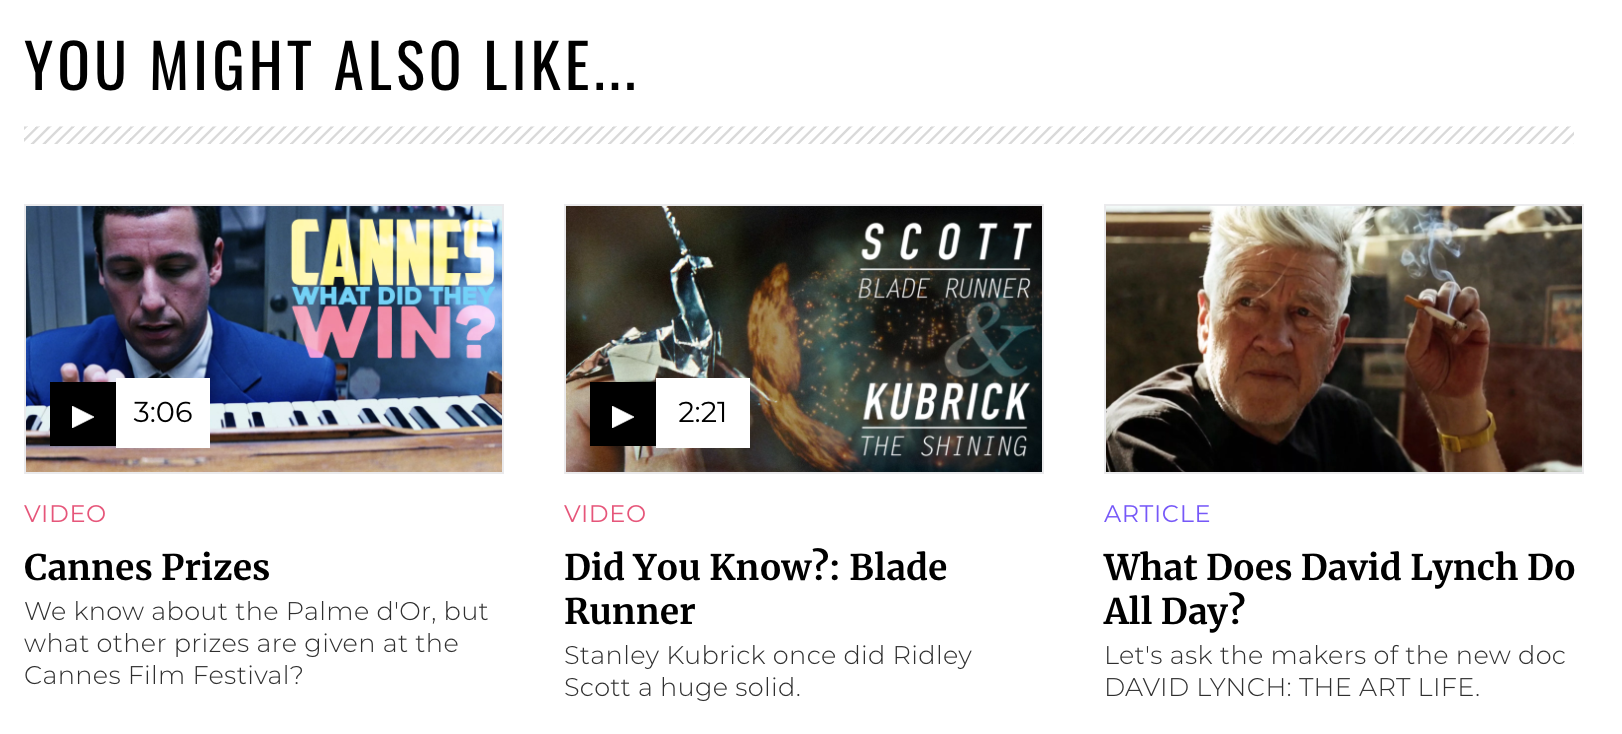
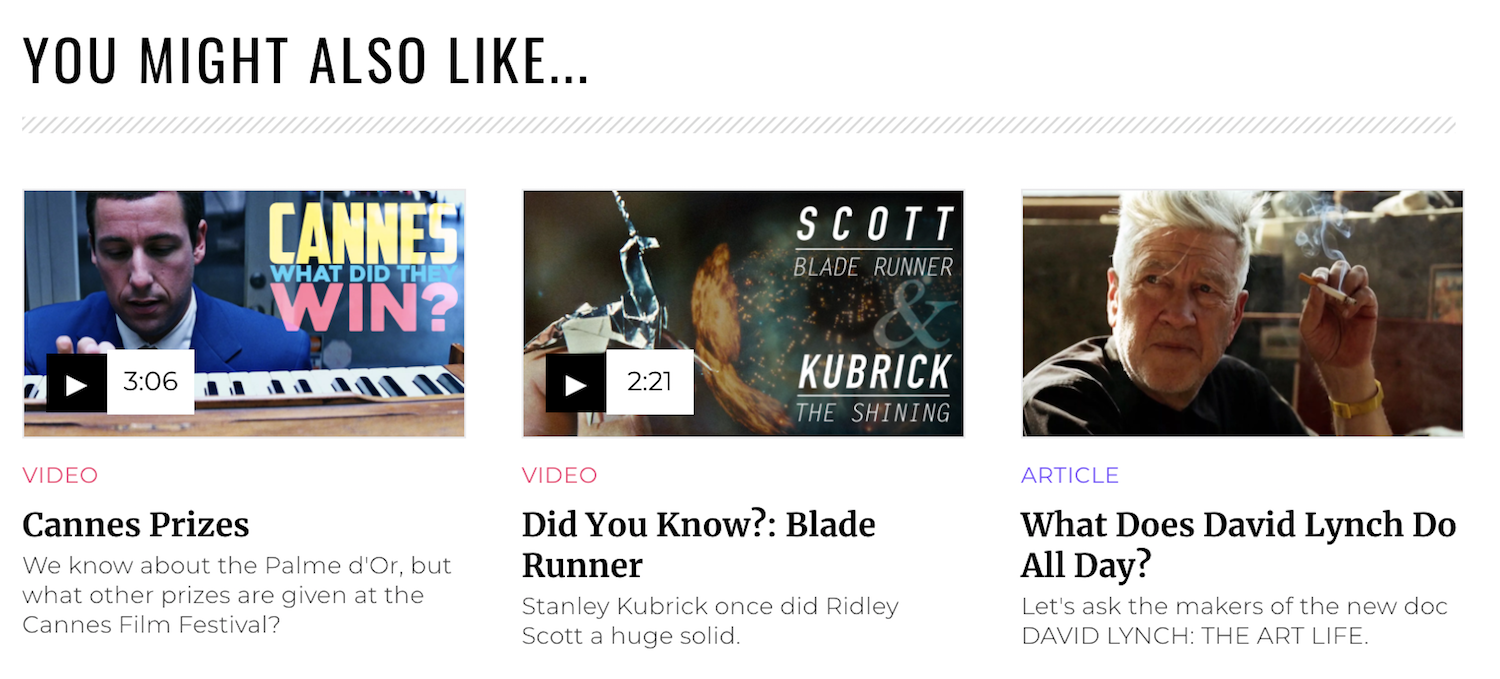
update

diff --git a/10-17-2017.html b/10-17-2017.html
@@ -84,7 +84,8 @@
 
                     <p>I am very excited about this! After about two months of the front and back-end engineering teams working on it, there are now three options under "You Might Also Like..." after each article and video essay. It feels great to have something that I worked on being used, on the internet, and to have people all over use it. I am ecstatic, thanks Fandor!!!</p>
 
-                    <img src="img/rec_image.png">
+                   
+                    <img src="img/rec_image.png" width = "500">
 
                 </div>
             </div>
